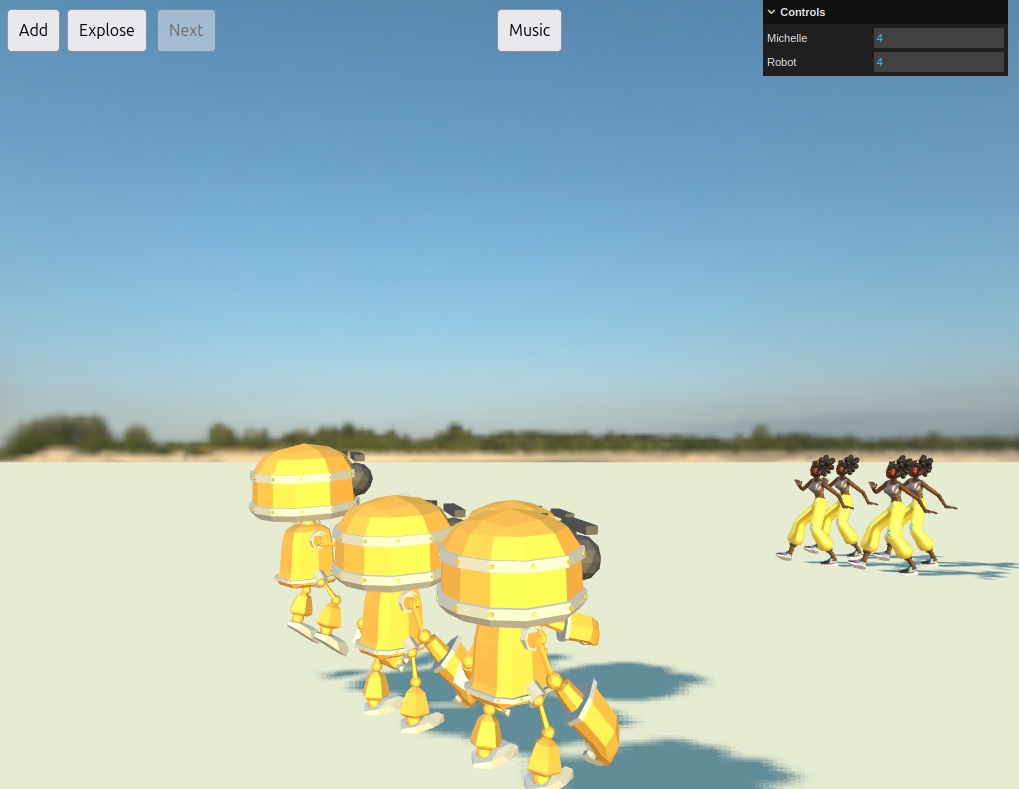
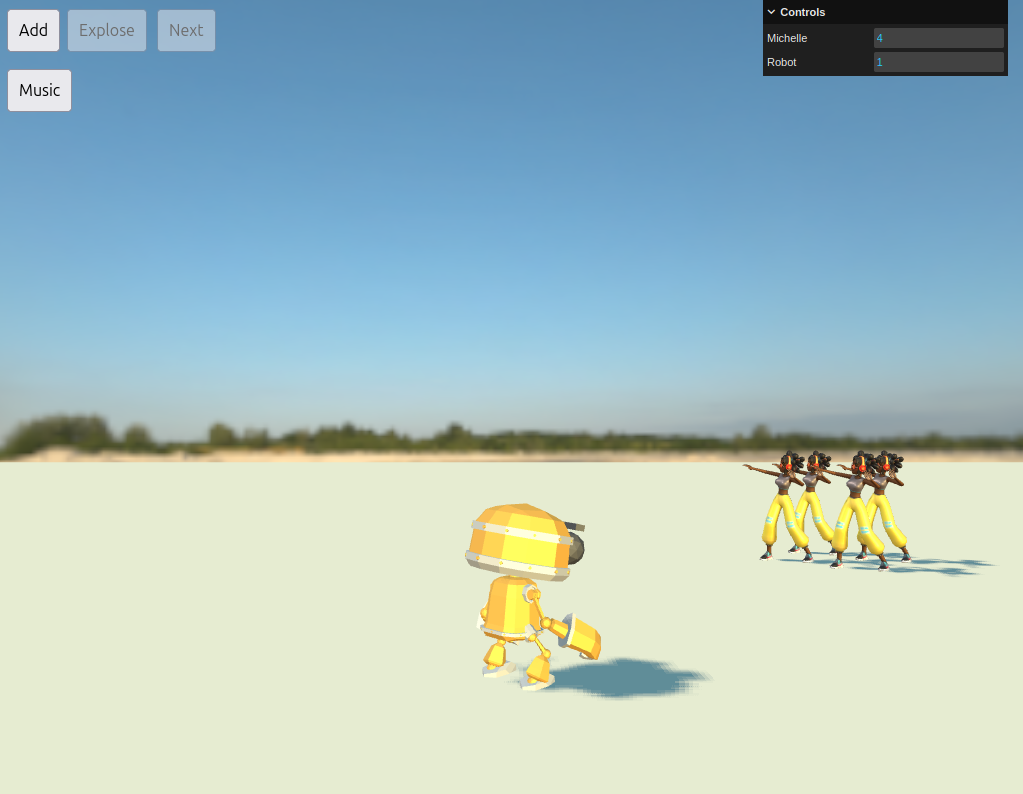
Adapt Music button for phone

diff --git a/src/main.js b/src/main.js
@@ -312,8 +312,8 @@ function createUI() {
     musicButton = document.createElement('button');
     musicButton.innerText = 'Music';
     musicButton.style.position = 'absolute';
-    musicButton.style.top = '10px';
-    musicButton.style.left = '500px';
+    musicButton.style.top = '70px';
+    musicButton.style.left = '10px';
     musicButton.style.padding = '10px';
     musicButton.style.fontSize = '16px';
     document.body.appendChild(musicButton);
